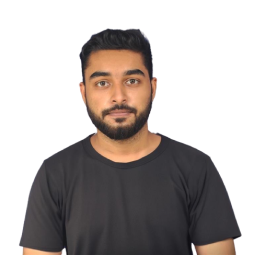
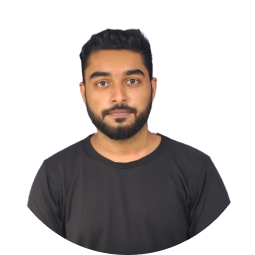
added round border images

Changed region(s): [[0.5216, 0.7961, 0.9608, 1.0], [0.0549, 0.7961, 0.4941, 1.0]]

diff --git a/components/Aboutus.tsx b/components/Aboutus.tsx
@@ -115,7 +115,7 @@ const Aboutus = () => {
           <h1>Our Team</h1>
           <h3>Meet the team transforming our AI relationship.</h3>
         </div>
-        <div className='lg:mx-24 sm:mx-0 mt-[108px]'>
+        <div className='lg:mx-24 sm:mx-0 mt-[108px] '>
         <Carousel responsive={responsive}
         additionalTransfrom={0}
         arrows
@@ -131,7 +131,7 @@ const Aboutus = () => {
         draggable
         className='h-[455px] '>
           <div>
-            <div className='flex flex-col items-center justify-center'>
+            <div className='flex flex-col items-center justify-center pl-[20px]'>
               <Image src={kin} alt='' />
               <div className='pt-5 text-black text-center font-poppins text-lg font-medium leading-normal'>Kin Cheung</div>
               <div className="text-gray-700 text-center font-poppins text-lg font-medium leading-normal">Founder </div>
@@ -147,14 +147,14 @@ const Aboutus = () => {
             </div>
           </div>
           <div>
-            <div className='flex flex-col items-center justify-center'>
+            <div className='flex flex-col items-center justify-center pr-[20px]'>
               <Image src={praveen} alt='' />
               <div className='pt-5 text-black text-center font-poppins text-lg font-medium leading-normal'>Praveen Dommalapati</div>
               <div className="w-[224px] h-[63px] pt-4 text-gray-700 text-center font-poppins text-base font-medium leading-normal">Product Manager</div>
             </div>
           </div>
           <div>
-            <div className='flex flex-col items-center justify-center rounded-full'>
+            <div className='flex flex-col items-center justify-center rounded-full pl-[20px]'>
               <Image src={amarjeet} alt='' />
               <div className='pt-5 text-black text-center font-poppins text-lg font-medium leading-normal'>Amarjeet Sandhu</div>
               <div className="w-[224px] h-[63px] pt-4 text-gray-700 text-center font-poppins text-base font-medium leading-normal">Human Resource Manager </div>
@@ -168,14 +168,14 @@ const Aboutus = () => {
             </div>
           </div>
           <div>
-            <div className='flex flex-col items-center justify-center'>
+            <div className='flex flex-col items-center justify-center pr-[40px]'>
               <Image src={dhaval} alt='' />
               <div className='pt-5 text-black text-center font-poppins text-lg font-medium leading-normal'>Dhaval Vaja</div>
               <div className="w-[224px] h-[63px] pt-4 text-gray-700 text-center font-poppins text-base font-medium leading-normal">UX/UI Designer</div>
             </div>
           </div>
           <div>
-            <div className='flex flex-col items-center justify-center'>
+            <div className='flex flex-col items-center justify-center pl-[40px]'>
               <Image src={vikrant} alt='' />
               <div className='pt-5 text-black text-center font-poppins text-lg font-medium leading-normal'>Vikrant Singh</div>
               <div className="w-[224px] h-[63px] pt-4 text-gray-700 text-center font-poppins text-base font-medium leading-normal">Web Developer</div>
@@ -189,14 +189,14 @@ const Aboutus = () => {
             </div>
           </div>
           <div>
-            <div className='flex flex-col items-center justify-center'>
+            <div className='flex flex-col items-center justify-center pr-[20px]'>
               <Image src={prabakar} alt='' />
               <div className='pt-5 text-black text-center font-poppins text-lg font-medium leading-normal'>Prabhakar Singh</div>
               <div className="w-[224px] h-[63px] pt-4 text-gray-700 text-center font-poppins text-base font-medium leading-normal">Web Developer</div>
             </div>
           </div>
           <div>
-            <div className='flex flex-col items-center justify-center'>
+            <div className='flex flex-col items-center justify-center pl-[20px]'>
               <Image src={manu} alt='' />
               <div className='pt-5 text-black text-center font-poppins text-lg font-medium leading-normal'>Manu Goel</div>
               <div className="w-[224px] h-[63px] pt-4 text-gray-700 text-center font-poppins text-base font-medium leading-normal">Web Developer</div>
@@ -210,14 +210,14 @@ const Aboutus = () => {
             </div>
           </div>
           <div>
-            <div className='flex flex-col items-center justify-center'>
+            <div className='flex flex-col items-center justify-center pr-[20px]'>
               <Image src={sonu} alt='' />
               <div className='pt-5 text-black text-center font-poppins text-lg font-medium leading-normal'>Sonu Kumari</div>
               <div className="w-[224px] h-[63px] pt-4 text-gray-700 text-center font-poppins text-base font-medium leading-normal">UX/UI Designer</div>
             </div>
           </div>
           <div>
-            <div className='flex flex-col items-center justify-center'>
+            <div className='flex flex-col items-center justify-center pl-[20px]'>
               <Image src={gaurav} alt='' />
               <div className='pt-5 text-black text-center font-poppins text-lg font-medium leading-normal'>Gaurav Pardhi</div>
               <div className="w-[224px] h-[63px] pt-4 text-gray-700 text-center font-poppins text-base font-medium leading-normal">UX/UI Designer</div>
@@ -231,21 +231,21 @@ const Aboutus = () => {
             </div>
           </div>
           <div>
-            <div className='flex flex-col items-center justify-center pt-5'>
+            <div className='flex flex-col items-center justify-center pr-[20px]'>
               <Image src={lucita} alt='' />
               <div className='pt-5 text-black text-center font-poppins text-lg font-medium leading-normal'>Lucita Pagado</div>
               <div className="w-[224px] h-[63px] pt-4 text-gray-700 text-center font-poppins text-base font-medium leading-normal">Social Media Manager</div>
             </div>
           </div>
           <div>
-            <div className='flex flex-col items-center justify-center mt-[-8px]'>
+            <div className='flex flex-col items-center justify-center '>
               <Image src={sawal} alt='' />
               <div className='pt-5 text-black text-center font-poppins text-lg font-medium leading-normal'>Sawal Tandon</div>
               <div className="w-[224px] h-[63px] pt-4 text-gray-700 text-center font-poppins text-base font-medium leading-normal">Quality Assurance Tester</div>
             </div>
           </div>
           <div>
-            <div className='flex flex-col items-center justify-center pt-4'>
+            <div className='flex flex-col items-center justify-center '>
               <Image src={lakshmi} alt='' />
               <div className='pt-5 text-black text-center font-poppins text-lg font-medium leading-normal'>Maha Lakshmi K</div>
               <div className="w-[224px] h-[63px] pt-4 text-gray-700 text-center font-poppins text-base font-medium leading-normal">Quality Assurance Tester</div>

diff --git a/app/globals.css b/app/globals.css
@@ -782,3 +782,4 @@ body {
     margin-left: 12px;
   }
 }
+
